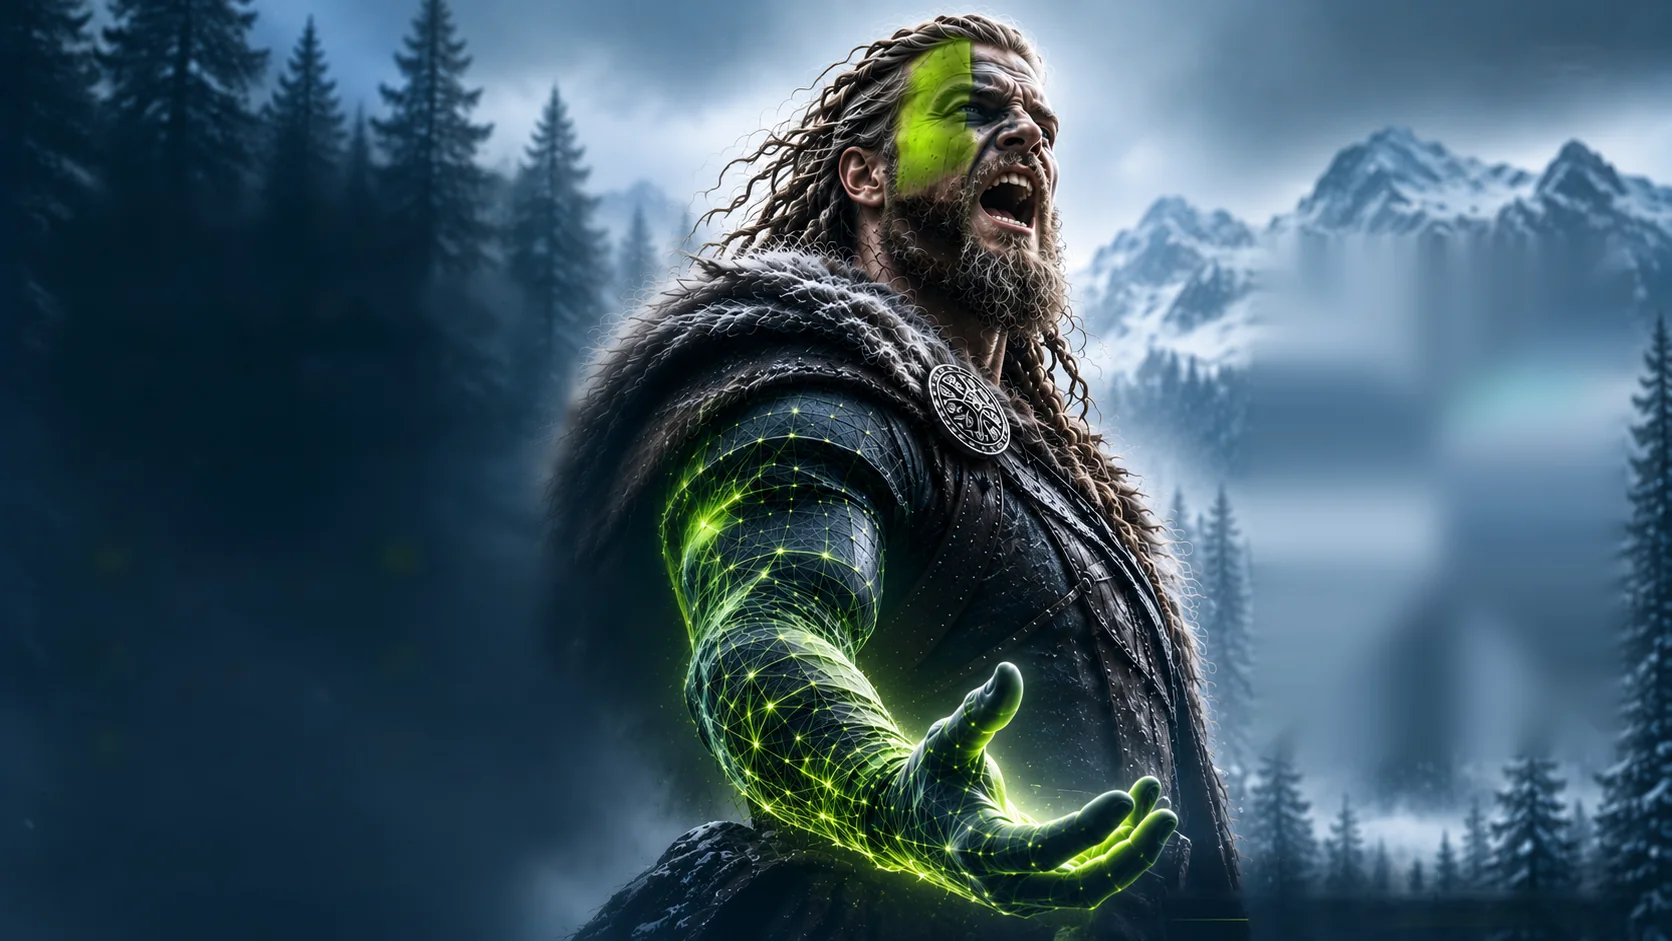
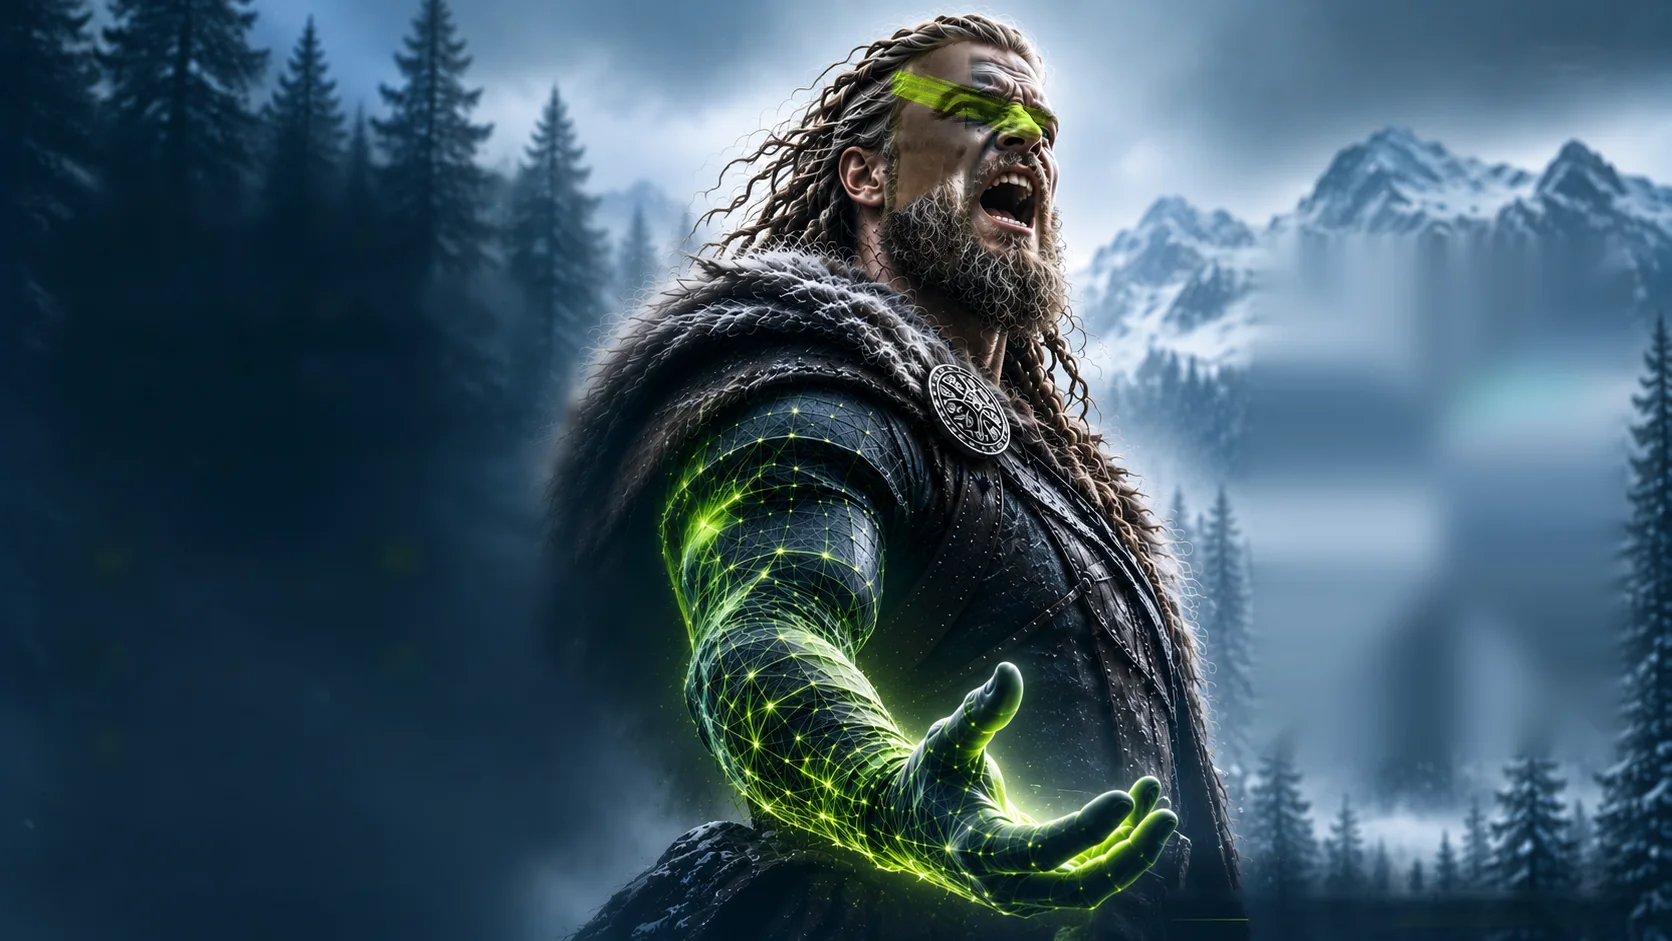
feat(web): transverse finger-smeared lime pigment across the eyes; face and beard restored
The vertical stripe is removed: skin rebuilt from the face around it, beard restored with real curls. A lime powder band is smeared across the brow and eyes with finger lanes, grain and loose dust, following the light. Sheen travels along the band.

Claude-Session: https://claude.ai/code/session_015o78ktM6V7jTsd6rChiXeL

Changed region(s): [[0.5287, 0.0308, 0.622, 0.2774]]

diff --git a/apps/web/src/style.css b/apps/web/src/style.css
@@ -412,16 +412,16 @@ kbd { font: 600 11px var(--font); border: 1px solid var(--night-line-strong); bo
 .arm-glow { position: absolute; inset: 0; mix-blend-mode: screen; background: radial-gradient(14% 18% at 55% 75%, rgba(182, 255, 0, .42), transparent 70%); animation: armPulse 3.2s ease-in-out infinite; }
 .arm-sweep { position: absolute; inset: 0; mix-blend-mode: screen; background: linear-gradient(125deg, transparent 44%, rgba(228, 255, 107, .6) 50%, transparent 56%); background-size: 300% 300%; animation: armSweep 3.8s cubic-bezier(.6, 0, .4, 1) infinite; }
 /* Face paint: effects live inside the exact shape of the paint (alpha mask), so they move with the skin. */
-.paint { position: absolute; left: 53.41%; top: 3.93%; width: 5.20%; height: 17.53%;
+.paint { position: absolute; left: 53.05%; top: 6.38%; width: 10.29%; height: 9.78%;
   -webkit-mask: var(--pm) center / 100% 100% no-repeat; mask: var(--pm) center / 100% 100% no-repeat; }
 .paint i { position: absolute; inset: 0; }
-/* a wet sheen that travels down the stroke, following the face from brow to cheek */
-.paint-sheen { mix-blend-mode: soft-light; background: linear-gradient(172deg, transparent 0%, transparent 38%, rgba(255, 255, 255, .6) 48%, rgba(255, 255, 255, .3) 52%, transparent 62%, transparent 100%);
-  background-size: 100% 320%; background-position: 0 100%; animation: paintSheen 6.5s cubic-bezier(.45, 0, .2, 1) infinite 2.2s; }
+/* light catching the pigment dust, travelling along the finger smear from temple to nose */
+.paint-sheen { mix-blend-mode: soft-light; background: linear-gradient(105deg, transparent 0%, transparent 40%, rgba(255, 255, 255, .7) 49%, rgba(255, 255, 255, .35) 53%, transparent 62%, transparent 100%);
+  background-size: 320% 100%; background-position: 100% 0; animation: paintSheen 6.5s cubic-bezier(.45, 0, .2, 1) infinite 2.2s; }
 /* the pigment charges up like the arm, a slow breath of lime light */
-.paint-glow { mix-blend-mode: screen; background: radial-gradient(90% 55% at 40% 45%, rgba(182, 255, 0, .55), rgba(182, 255, 0, .12) 60%, transparent 100%);
+.paint-glow { mix-blend-mode: screen; background: radial-gradient(60% 90% at 45% 50%, rgba(182, 255, 0, .5), rgba(182, 255, 0, .12) 60%, transparent 100%);
   opacity: 0; animation: paintGlow 6.5s ease-in-out infinite 2.2s; }
-@keyframes paintSheen { 0% { background-position: 0 100%; } 55%, 100% { background-position: 0 0%; } }
+@keyframes paintSheen { 0% { background-position: 100% 0; } 55%, 100% { background-position: 0% 0; } }
 @keyframes paintGlow { 0%, 100% { opacity: 0; } 30% { opacity: .55; } 60% { opacity: .15; } }
 @keyframes armPulse { 0%, 100% { opacity: .55; } 50% { opacity: 1; } }
 @keyframes armSweep { 0% { background-position: 100% 100%; } 100% { background-position: 0% 0%; } }
